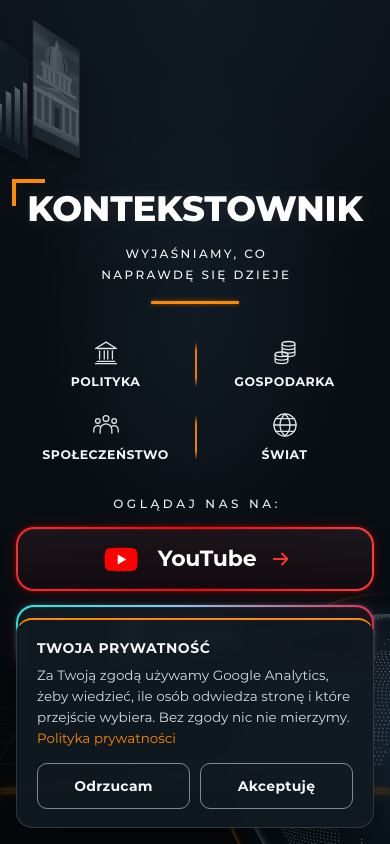
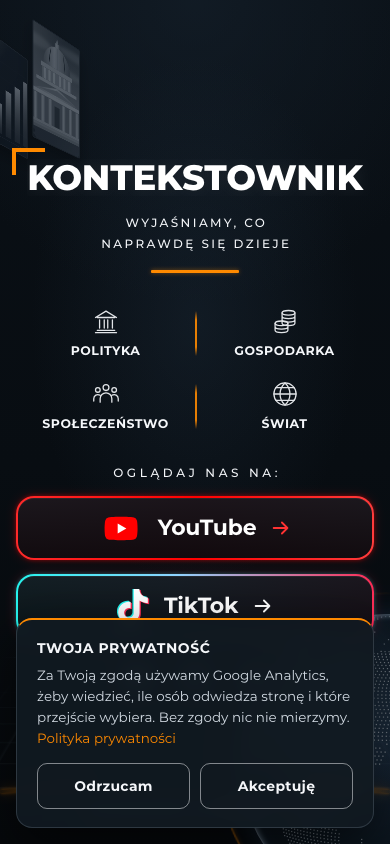
Pierwszy materiał (spór o TK) + ikony Facebook, Instagram, e-mail; polityka prywatności zaktualizowana (bez publikacji – czeka na OK)

Changed region(s): [[0.0308, 0.3697, 0.9846, 0.7393], [0.0308, 0.154, 0.9231, 0.5545]]

diff --git a/index.html b/index.html
@@ -129,6 +129,17 @@
           <svg class="cta__arrow" viewBox="0 0 24 24" aria-hidden="true"><path d="M4 12h15M13 6l6 6-6 6"/></svg>
         </a>
       </div>
+      <nav class="social" aria-label="KONTEKSTOWNIK w innych miejscach">
+        <a class="social__link" href="https://www.facebook.com/profile.php?id=61595806302950" target="_blank" rel="noopener noreferrer" data-social="facebook" aria-label="Facebook (otwiera się w nowej karcie)">
+          <svg viewBox="0 0 24 24" aria-hidden="true"><path fill="currentColor" d="M9.101 23.691v-7.98H6.627v-3.667h2.474v-1.58c0-4.085 1.848-5.978 5.858-5.978.401 0 .955.042 1.468.103a8.68 8.68 0 0 1 1.141.195v3.325a8.623 8.623 0 0 0-.653-.036 26.805 26.805 0 0 0-.733-.009c-.707 0-1.259.096-1.675.309a1.686 1.686 0 0 0-.679.622c-.258.42-.374.995-.374 1.752v1.297h3.919l-.386 2.103-.287 1.564h-3.246v8.245C19.396 23.238 24 18.179 24 12.044c0-6.627-5.373-12-12-12s-12 5.373-12 12c0 5.628 3.874 10.35 9.101 11.647Z"/></svg>
+        </a>
+        <a class="social__link" href="https://www.instagram.com/kontekstownik/" target="_blank" rel="noopener noreferrer" data-social="instagram" aria-label="Instagram (otwiera się w nowej karcie)">
+          <svg viewBox="0 0 24 24" aria-hidden="true"><path fill="currentColor" d="M7.0301.084c-1.2768.0602-2.1487.264-2.911.5634-.7888.3075-1.4575.72-2.1228 1.3877-.6652.6677-1.075 1.3368-1.3802 2.127-.2954.7638-.4956 1.6365-.552 2.914-.0564 1.2775-.0689 1.6882-.0626 4.947.0062 3.2586.0206 3.6671.0825 4.9473.061 1.2765.264 2.1482.5635 2.9107.308.7889.72 1.4573 1.388 2.1228.6679.6655 1.3365 1.0743 2.1285 1.38.7632.295 1.6361.4961 2.9134.552 1.2773.056 1.6884.069 4.9462.0627 3.2578-.0062 3.668-.0207 4.9478-.0814 1.28-.0607 2.147-.2652 2.9098-.5633.7889-.3086 1.4578-.72 2.1228-1.3881.665-.6682 1.0745-1.3378 1.3795-2.1284.2957-.7632.4966-1.636.552-2.9124.056-1.2809.0692-1.6898.063-4.948-.0063-3.2583-.021-3.6668-.0817-4.9465-.0607-1.2797-.264-2.1487-.5633-2.9117-.3084-.7889-.72-1.4568-1.3876-2.1228C21.2982 1.33 20.628.9208 19.8378.6165 19.074.321 18.2017.1197 16.9244.0645 15.6471.0093 15.236-.005 11.977.0014 8.718.0076 8.31.0215 7.0301.0839m.1402 21.6932c-1.17-.0509-1.8053-.2453-2.2287-.408-.5606-.216-.96-.4771-1.3819-.895-.422-.4178-.6811-.8186-.9-1.378-.1644-.4234-.3624-1.058-.4171-2.228-.0595-1.2645-.072-1.6442-.079-4.848-.007-3.2037.0053-3.583.0607-4.848.05-1.169.2456-1.805.408-2.2282.216-.5613.4762-.96.895-1.3816.4188-.4217.8184-.6814 1.3783-.9003.423-.1651 1.0575-.3614 2.227-.4171 1.2655-.06 1.6447-.072 4.848-.079 3.2033-.007 3.5835.005 4.8495.0608 1.169.0508 1.8053.2445 2.228.408.5608.216.96.4754 1.3816.895.4217.4194.6816.8176.9005 1.3787.1653.4217.3617 1.056.4169 2.2263.0602 1.2655.0739 1.645.0796 4.848.0058 3.203-.0055 3.5834-.061 4.848-.051 1.17-.245 1.8055-.408 2.2294-.216.5604-.4763.96-.8954 1.3814-.419.4215-.8181.6811-1.3783.9-.4224.1649-1.0577.3617-2.2262.4174-1.2656.0595-1.6448.072-4.8493.079-3.2045.007-3.5825-.006-4.848-.0608M16.953 5.5864A1.44 1.44 0 1 0 18.39 4.144a1.44 1.44 0 0 0-1.437 1.4424M5.8385 12.012c.0067 3.4032 2.7706 6.1557 6.173 6.1493 3.4026-.0065 6.157-2.7701 6.1506-6.1733-.0065-3.4032-2.771-6.1565-6.174-6.1498-3.403.0067-6.156 2.771-6.1496 6.1738M8 12.0077a4 4 0 1 1 4.008 3.9921A3.9996 3.9996 0 0 1 8 12.0077"/></svg>
+        </a>
+        <a class="social__link" href="mailto:kontekstownik@gmail.com" data-social="email" aria-label="Napisz do nas: kontekstownik@gmail.com">
+          <svg viewBox="0 0 24 24" aria-hidden="true"><path fill="none" stroke="currentColor" stroke-width="1.8" stroke-linejoin="round" d="M3 6.5h18v11H3z"/><path fill="none" stroke="currentColor" stroke-width="1.8" stroke-linecap="round" stroke-linejoin="round" d="m3.5 7 8.5 6.5L20.5 7"/></svg>
+        </a>
+      </nav>
     </section>
 
     <!--materialy:hint-->

diff --git a/polityka-prywatnosci/index.html b/polityka-prywatnosci/index.html
@@ -19,7 +19,7 @@
   <main class="doc__main">
     <a class="doc__logo" href="/"><span class="doc__corner" aria-hidden="true"></span>KONTEKSTOWNIK</a>
     <h1>Polityka prywatności</h1>
-    <p class="doc__meta">Obowiązuje od 31 października 2026 r.</p>
+    <p class="doc__meta">Obowiązuje od 31 października 2026 r. (aktualizacja: dodane kanały Facebook, Instagram i e-mail)</p>
 
     <h2>1. Administrator</h2>
     <p>Administratorem danych zbieranych na stronie www.kontekstownik.pl jest Damian Dobroliński.
@@ -69,9 +69,12 @@
       a także prawo wycofania zgody. Masz też prawo złożyć skargę do Prezesa Urzędu Ochrony Danych Osobowych (ul. Stawki 2, 00-193 Warszawa).
       Na podstawie danych nie podejmujemy decyzji automatycznie ani nie profilujemy w celach reklamowych.</p>
 
-    <h2>8. Linki do YouTube i TikToka</h2>
-    <p>Przyciski prowadzą do serwisów YouTube (Google) i TikTok, które działają według własnych zasad prywatności.
-      Strona nie osadza ich odtwarzaczy ani skryptów.</p>
+    <h2>8. Linki do serwisów zewnętrznych i e-mail</h2>
+    <p>Przyciski prowadzą do serwisów YouTube (Google), TikTok, Facebook i Instagram (Meta), które działają według własnych
+      zasad prywatności. Strona nie osadza ich odtwarzaczy, wtyczek ani skryptów, więc nic nie łączy się z nimi przed kliknięciem.</p>
+    <p>Jeśli napiszesz na <a href="mailto:kontekstownik@gmail.com">kontekstownik@gmail.com</a>, przetwarzamy Twój adres i treść
+      wiadomości, żeby odpowiedzieć (art. 6 ust. 1 lit. f RODO), i przechowujemy je tak długo, jak wymaga tego korespondencja.
+      Skrzynkę obsługuje Google.</p>
 
     <p class="doc__back"><a href="/">← Wróć na stronę główną</a></p>
   </main>

diff --git a/src/styles/social.css b/src/styles/social.css
@@ -1,0 +1,19 @@
+/* Drugorzędne kanały (Facebook, Instagram, e-mail): małe ikony pod przyciskami YouTube/TikTok, bez konkurowania z nimi. */
+.social { display: flex; justify-content: center; gap: max(12px, calc(var(--u) * 1.2)); margin-top: max(4px, calc(var(--u) * 2.4)); } /* poniżej odbić przycisków */
+.social__link {
+  display: grid;
+  place-items: center;
+  width: max(44px, calc(var(--u) * 3.6));
+  height: max(44px, calc(var(--u) * 3.6));
+  border-radius: 50%;
+  color: var(--muted);
+  border: 1px solid rgb(200 220 240 / 0.18);
+  background: rgb(16 24 32 / 0.6);
+  transition: color 0.25s, border-color 0.25s, box-shadow 0.25s, transform 0.25s var(--ease-out);
+}
+.social__link svg { width: 46%; height: 46%; }
+@media (hover: hover) {
+  .social__link:hover { color: var(--white); border-color: var(--orange); box-shadow: 0 0 14px rgb(255 138 0 / 0.35); transform: translateY(-2px); }
+}
+.social__link:focus-visible { outline: 3px solid var(--orange); outline-offset: 4px; }
+@media (max-width: 640px) { .social { gap: 14px; margin-top: 2px; } }

diff --git a/src/scripts/analytics.js b/src/scripts/analytics.js
@@ -28,6 +28,9 @@ export function startAnalytics() {
   // click + auxclick (środkowy przycisk = otwarcie w nowej karcie). Mierzymy przejście, nie obejrzenie.
   const onClick = (e) => {
     if (e.type === 'auxclick' && e.button !== 1) return;
+    // Facebook / Instagram / e-mail: osobne zdarzenie, żeby nie zawyżać konwersji platform wideo
+    const social = e.target.closest?.('a[data-social]');
+    if (social) { gtag('event', 'social_click', { network: social.dataset.social }); return; }
     const link = e.target.closest?.('a[data-platform]');
     if (!link) return;
     // placement: hero (główne przyciski) albo karta materiału; material_id/category tylko przy kartach

diff --git a/src/styles/materials.css b/src/styles/materials.css
@@ -15,7 +15,9 @@
   text-transform: uppercase;
   color: var(--muted);
   padding: 10px 6px;
+  white-space: nowrap;
 }
+@media (max-width: 640px) { .scroll-hint { bottom: 18px; letter-spacing: 0.16em; } }
 .scroll-hint span { color: var(--orange); animation: hint 2.4s ease-in-out infinite; }
 @keyframes hint { 50% { transform: translateY(4px); } }
 .scroll-hint:hover { color: var(--white); }

diff --git a/src/scripts/main.js b/src/scripts/main.js
@@ -4,6 +4,7 @@ import '../styles/base.css';
 import '../styles/scene.css';
 import '../styles/hero.css';
 import '../styles/cta.css';
+import '../styles/social.css';
 import '../styles/motion.css';
 import '../styles/responsive.css';
 import '../styles/consent.css';
